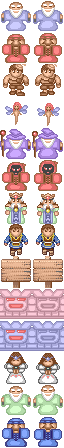
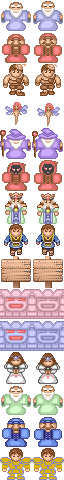
增加贤者

diff --git a/project/icons.js b/project/icons.js
@@ -110,7 +110,8 @@ var icons_4665ee12_3a1f_44a4_bea3_0fccba634dc1 =
 		"moneyShop": 10,
 		"princess": 11,
 		"greenMan": 12,
-		"blueTrader": 13
+		"blueTrader": 13,
+		"N1577": 14
 	},
 	"npc48": {
 		"npc0": 0,

diff --git a/project/maps.js b/project/maps.js
@@ -1469,5 +1469,6 @@ var maps_90f36752_8815_4be8_b32b_d7fad1d0542e =
 	"1573": {"cls":"items","id":"I1573"},
 	"1574": {"cls":"items","id":"I1574"},
 	"1575": {"cls":"items","id":"I1575"},
-	"1576": {"cls":"items","id":"I1576"}
+	"1576": {"cls":"items","id":"I1576"},
+	"1577": {"cls":"npcs","id":"N1577"}
 }